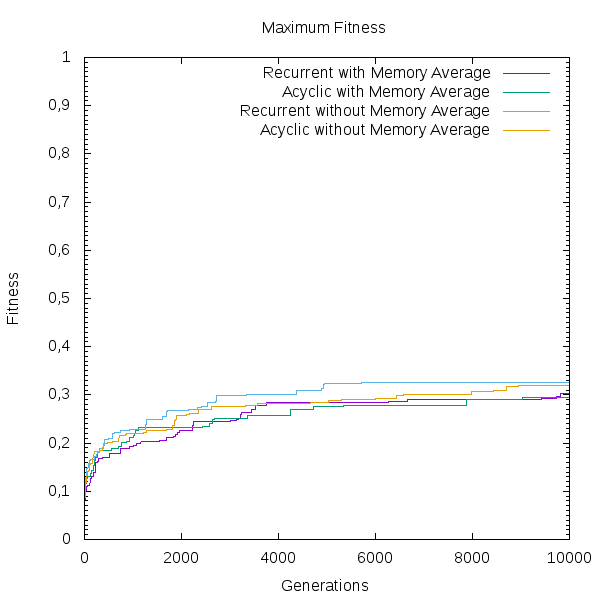
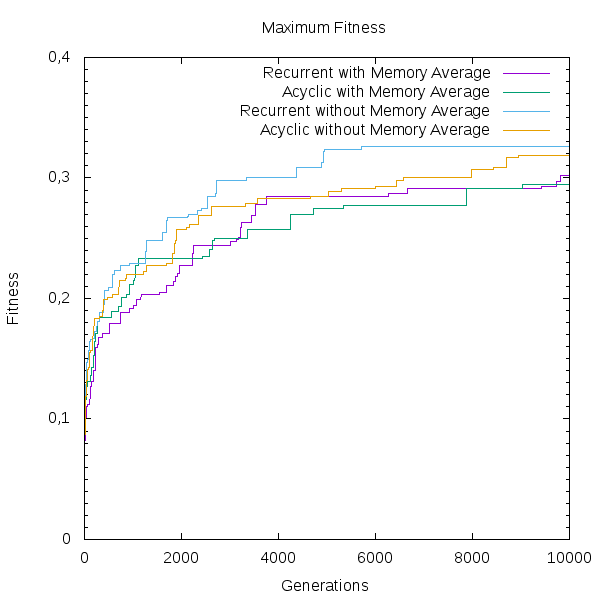
Fixing of some todos, introduction of new ones? (not sure)

diff --git a/Group Project/report/background.tex b/Group Project/report/background.tex
@@ -6,22 +6,22 @@
 A \textit{graph} $G(V,E)$ is data-structure which consists of a set of \textit{vertices} $V$ and a set of \textit{edges} $E$ where an edge is a pair of vertices $(u,v)$. An \textit{undirected graph} implies that if edge $ (u,v) $ exists then $ (v,u) $ exists in the graph. An \textit{unweighted graph} every edge is equal in the cost to traverse it.
 Two vertices are \textit{adjacent} if they are part of the same edge $ e $. A \textit{path} $ P $ is a ordered set of edges such that every consecutive edge shares a vertex. To vertices $ u $, $ v $ are \textit{connected} if there exist a path between $ u $, $ v $.
 
-\newpar In an undirected unweighted graph the length of a path P is $ |P| $. A shortest path between two vertices  $ u $, $ v $ is a path $ P $ connecting  $ u $, $ v $ of the smallest length. The Breadth First Search (BFS) algorithm can find the shortest path in time $ \mathcal{O}(n+m) $ where $ n=|V| $ and $ m=|E| $. To be able to solve this combinatorial problem for which the exhaustive search space is $ n! $ the BFS algorithm uses a queue to store previously visited vertices and a map of the vertices and which vertex would come before it in the shortest path.
-
-\todo{why is memory neccesary or maybe further in}
+\newpar In an undirected unweighted graph the length of a path P is $|P|$. A shortest path between two vertices  $u$, $v$ is a path $P$ connecting  $u$, $v$ of the smallest length. The Breadth First Search (BFS) algorithm can find the shortest path in time $\mathcal{O}(n+m)$ where $n=|V|$ and $m=|E|$. To be able to solve this combinatorial problem for which the exhaustive search space is $n!$ the BFS algorithm uses a queue to store previously visited vertices and a map of the vertices and which vertex would come before it in the shortest path.
 
 \subsection{Neural Networks}
-A \textit{neural network} is an approximation method for \textit{n} dimensional functions. Neural networks consists of a collection of \textit{layers} $L_1 .. L_n$ where $L_1$ is the \textit{input layer}, $L_2 .. L_{n-1}$ are \textit{hidden layers}, and $L_n$ is the \textit{output layer}. Each layer $ Li $ consist of a number of \textit{neurons}. A neuron is connected to other neurons in the layer before and after its own layer.\todo{skal vi nævne at man også kan forbindes til sig selv?} Neurons can send signals to other neurons it is connected to. The strength of a signal is specified by a \textit{signal function} of a neuron. Neurons gets \textit{activated} and sends a signal if itself has become activated a \textit{threshold} amount by other neurons. The signal function is based on a \textit{formula}, a \textit{weight} and a \textit{bias}. 
+A \textit{neural network} is an approximation method for \textit{n} dimensional functions. Neural networks consists of a collection of \textit{layers} $L_1 .. L_n$ where $L_1$ is the \textit{input layer}, $L_2 .. L_{n-1}$ are \textit{hidden layers}, and $L_n$ is the \textit{output layer}. Each layer $L_i$ consist of a number of \textit{neurons}. A neuron is connected to other neurons in the layer before and after its own layer. Neurons can send signals to other neurons it is connected to. The strength of a signal is specified by a \textit{signal function} of a neuron. Neurons gets \textit{activated} and sends a signal if itself has become activated a \textit{threshold} amount by other neurons. The signal function is based on a \textit{formula}, a \textit{weight} and a \textit{bias}. 
 
 \newpar The \textit{feed forward algorithm} activates the neurons of the input layer based on some input data, whom in return activates the neurons of the next layer and so on. The values of the output layer is then read. The \textit{back-propagation algorithm} calculates the error of the output neurons compared to the input data and corrects it based on a function. The errors are then back-propagated through the layers. By running the feed forward and back-propagation algorithms in combination with enough data, almost any function can be approximated.
 
-\newpar A \textit{one hot encoding} of a nominal data point, is a conversion of the data point into a bit array $A$ with the length $n$, where $n$ is the number of possible nominal values. Each of the nominal values are then assigned a label $i \in \{0 .. n-1\}$. For a nominal value with label $i$ only $ A[i] $ is $1$. All other elements in $A$ is $0$.
+\newpar It is also possible for a neural network to be recurrent. These kinds of networks allow a neuron to be connected to itself, other neurons in the same layer, or maybe the neurons of the entire network, depending on the configuration.
+
+\newpar A \textit{one hot encoding} of a nominal data point, is a conversion of the data point into a bit array $A$ with the length $n$, where $n$ is the number of possible nominal values. Each of the nominal values are then assigned a label $i \in \{0 .. n-1\}$. For a nominal value with label $i$ only $ A[i] $ is $1$. All other elements in $A$ is $0$. This encoding is often used for neural networks, as each element of $A$ can be used as the input for a single neuron in the input layer of a neural network.
 
 \subsection{Evolutionary Neural Networks}
-Evolutionary neural networks is a method of training and developing the topology of neural networks based on evolutionary algorithms. These networks can be trained without using supervised learning but reward based learning where a fitness function describes how well the network does in the specific instance.\todo{Indtil NEAT, var den største anvendelse så ikke at justere vægte og ikke selve topologien af netværkene?}
+Evolutionary neural networks is a method of training the weights of a neural network based on evolutionary algorithms. These networks can be trained without using supervised learning but reward based learning where a fitness function describes how well the network does in the specific instance. The use of evolutionary algorithms means that high performing neural networks are the base for the next generations, rather than choosing arbitrary or completely random networks in each generation.
 
 \subsubsection{NeuroEvolution of Augmenting Topologies (NEAT)}
-Whereas most other Evolutionary Neural Network algorithms, start from a randomly seeded network, NEAT evolves the topology from the minimal network, where no hidden neurons exist.
+Whereas most other Evolutionary Neural Network algorithms, start from a randomly seeded network with a fixed topology, NEAT evolves the topology from the minimal network, where no hidden neurons exist.
 
 \newpar NEAT has a few main components, that is used to improve over previous neuroevolution algorithms:
 

diff --git a/Group Project/report/results.tex b/Group Project/report/results.tex
@@ -2,43 +2,37 @@
 % !TeX spellcheck = en_GB
 
 \section{Results}
-The results of the experiments can be seen on Figures \ref{experiments:graph:1} and \ref{experiments:graph:2}. The $x$ axis shows the generation, and the $y$ axis shows the champion fitness achieved for that generation in the run.
+The results of the experiments can be seen on Figures \ref{experiments:graph:1}, \ref{experiments:graph:2}, \ref{experiments:graph:3} and \ref{experiments:graph:4}. The $x$ axis shows the generation, and the $y$ axis shows the champion fitness achieved for that generation in the run.
 
-\begin{figure}[ht]
-	\begin{subfigure}{\textwidth}
-		\includegraphics[width=\textwidth]{figures/recurrentmemory.png}
-		\caption{}
-	\end{subfigure}
-	\begin{subfigure}{\textwidth}
-		\includegraphics[width=\textwidth]{figures/recurrentnomemory.png}
-		\caption{}
-	\end{subfigure}
-	\caption{Graph of the results when using recurrent networks. (a) is with enabled memory bank, (b) is without.}
+\begin{figure}[H]
+	\includegraphics[width=\textwidth]{figures/recurrentmemory.png}
+\caption{Graph of the results when using recurrent networks with enabled memory bank}
 	\label{experiments:graph:1}
 \end{figure}
+\begin{figure}[H]
+	\includegraphics[width=\textwidth]{figures/recurrentnomemory.png}
+	\caption{Graph of the results when using recurrent networks with disabled memory bank.}
+		\label{experiments:graph:2}
+\end{figure}
 
-\begin{figure}[ht]
-	\begin{subfigure}{\textwidth}
-		\includegraphics[width=\textwidth]{figures/acyclicmemory.png}
-		\caption{}
-	\end{subfigure}
-	\begin{subfigure}{\textwidth}
-		\includegraphics[width=\textwidth]{figures/acyclicnomemory.png}
-		\caption{}
-	\end{subfigure}
-	\caption{Graph of the results when using acyclic networks. (a) is with enabled memory bank, (b) is without.}
-	\label{experiments:graph:2}
+\begin{figure}[H]
+	\includegraphics[width=\textwidth]{figures/acyclicmemory.png}
+	\caption{Graph of the results when using acyclic networks with enabled memory bank.}
+	\label{experiments:graph:3}
+\end{figure}
+\begin{figure}[H]
+	\includegraphics[width=\textwidth]{figures/acyclicnomemory.png}
+	\caption{Graph of the results when using acyclic networks with disabled memory bank.}
+	\label{experiments:graph:4}
 \end{figure}
 
 \begin{figure}[ht]
 	\includegraphics[width=\textwidth]{figures/averages.png}
-	\caption{Averages over three runs of all configurations.}
+	\caption{Averages over three runs of all configurations. Note that the y-axis has been truncated to make it easier to distinguish the different runs.}
 	\label{experiments:graph:average}
 \end{figure}
 
-\newpar What is mostly hidden in the separate graphs, are show in \autoref{experiments:graph:average}. At least with the amount of generations we have allowed the network to operate within, the averages of the runs at generation 10.000 shows that both kinds of networks finds a better performing neural network when the Turing-functionality is turned off.
+\newpar What is mostly hidden in the separate graphs, are shown in \autoref{experiments:graph:average}. At least with the amount of generations we have allowed the network to operate within, the averages of the runs at generation 10.000 shows that both kinds of networks finds a better performing neural network when the Turing-functionality is turned off.
 
 \newpar We will discuss possible reasons for this in the following sections.
-
-\todo{Kan vi inddrage noget turing-memory halløj?}
 \clearpage

diff --git a/Group Project/report/introduction.tex b/Group Project/report/introduction.tex
@@ -2,7 +2,7 @@
 % !TeX spellcheck = en_GB
 
 \section{Introduction}
-Finding the shortest path in a graph is one of the most well studied algorithmic graph problems and solutions for the problem origin back to the late 1950's.\todo[color=green]{maybe ref?} Finding the shortest path has a long list of applications from transport and routing tables in networks to being an essential part of many more advanced graph algorithms. Most problems can be modelled as a shortest path problem on a large enough graph and as such it can be seen as a general problem solver.\todo[color=green]{check liiiige om det her er bullshit - eller find en reference.} In recent years neural networks has gained more and more traction in the artificial intelligence and machine learning fields. This change is both due to the more widespread adoption and advancement of graphical processing units but also due to theoretical breakthroughs.\todo[color=green]{ref?} Neural networks are used for classification, finding heuristics and as the decision mechanism for artificial agents among others.
+Finding the shortest path in a graph is one of the most well studied algorithmic graph problems and solutions for the problem origin back to the late 1950's.\todo[color=green]{maybe ref?} Finding the shortest path has a long list of applications from transport and routing tables in networks to being an essential part of many more advanced graph algorithms. Most problems can be modelled as a shortest path problem on a large enough graph and as such it can be seen as a general problem solver.\todo[color=green]{check liiiige om det her er bullshit - eller find en reference.}\todo{Måske skal vi begrænse os til at sige en subproblem-solver? (og måske henvise til max-flow/min-cut hvor bfs bruges internt?)} In recent years neural networks has gained more and more traction in the artificial intelligence and machine learning fields. This change is both due to the more widespread adoption and advancement of graphical processing units but also due to theoretical breakthroughs.\todo[color=green]{ref?} Neural networks are used for classification, finding heuristics and as the decision mechanism for artificial agents among others.
 
 \newpar One of the most often mentioned problems with neural networks and machine learning in general is that they are inherently single purpose and do not handle different problems and domains very well from what they are trained to do.\todo[color=green]{skal her refereres til den artikel som Sebastian sendte omkring planning problems?}
 
